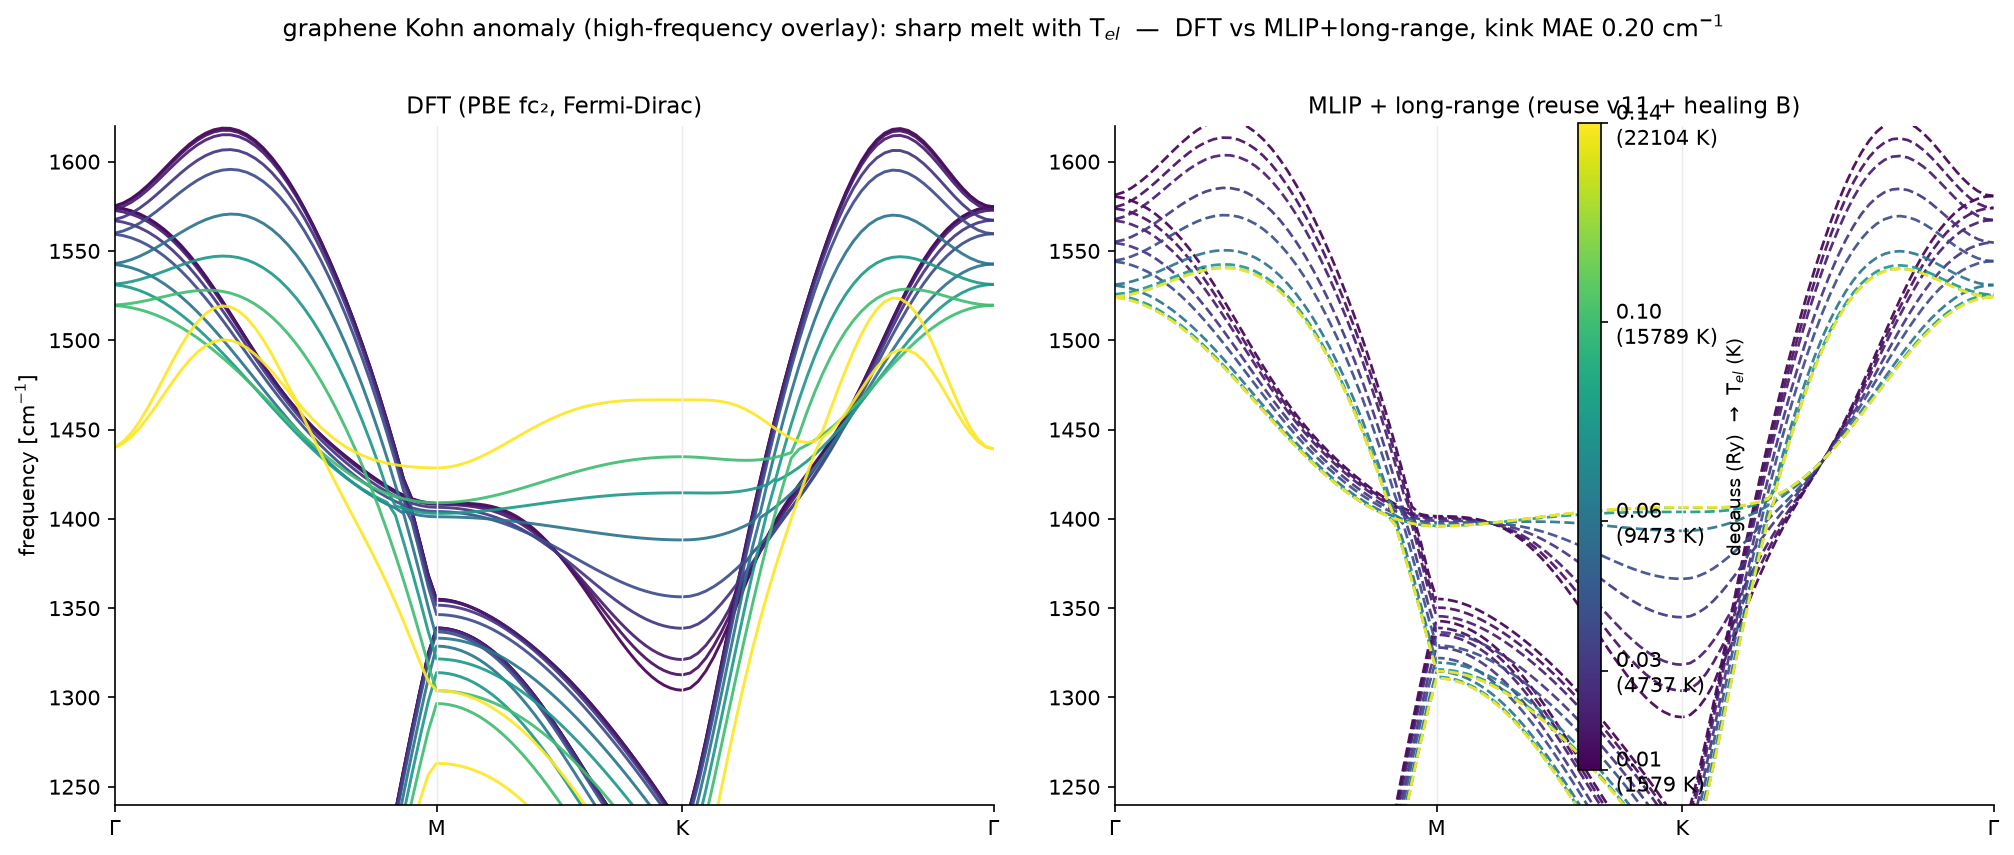
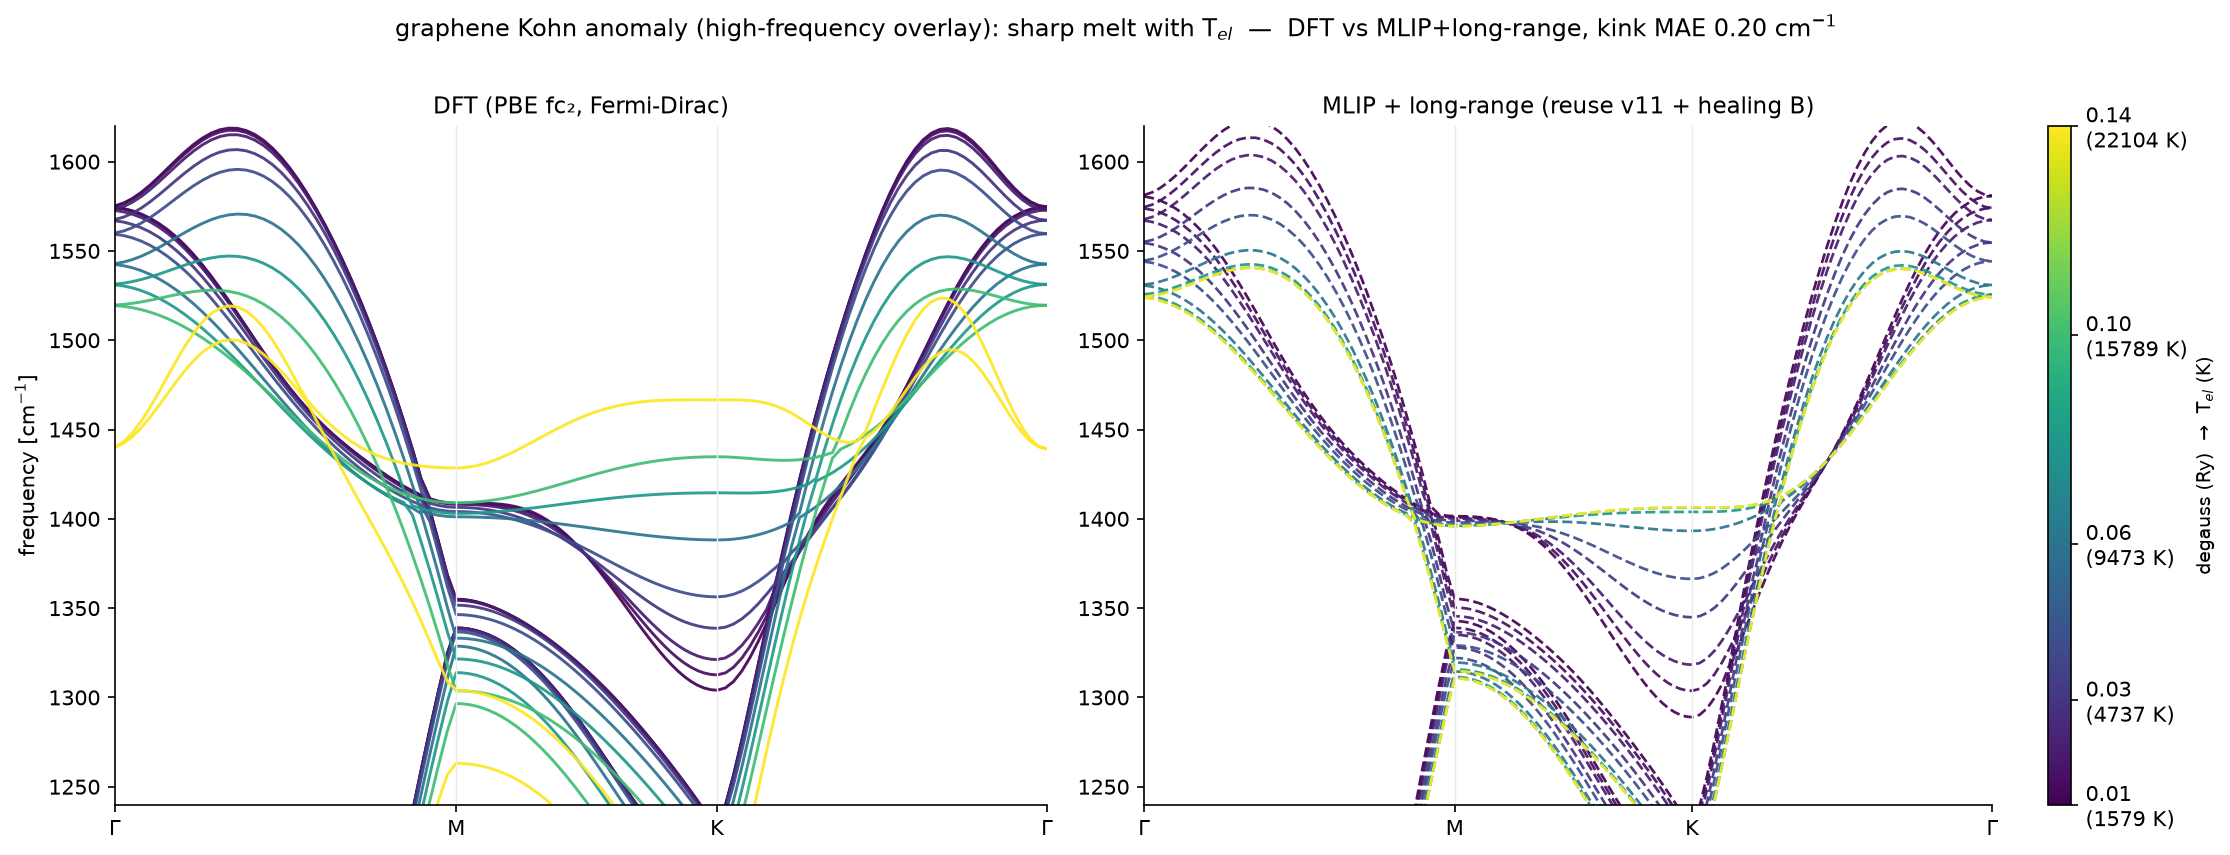
fix zoom colorbar overlap + add reuse-vs-retrain comparison to report §6
- lineA_kohn_zoom: wider figure (15in), colorbar pad 0.02->0.06 + fraction 0.03 (no overlap).
- report §6: add reuse_vs_retrain_vs_dft.png (Line A MAE 0.20 vs Line B 0.19, both reproduce
  Kohn anomaly + sharp melt via healing B(T)). Update boundary note (retrain done, MAE 0.19).

diff --git a/scripts/smearing_kink/plot_lineA_kohn_zoom.py b/scripts/smearing_kink/plot_lineA_kohn_zoom.py
@@ -34,7 +34,7 @@ def style(ax):
         ax.spines[s].set_visible(False)
 
 
-fig, (axD, axM) = plt.subplots(1, 2, figsize=(13.5, 5.6))
+fig, (axD, axM) = plt.subplots(1, 2, figsize=(15, 5.6))
 for i, dg in enumerate(dgs):
     col = cmap(norm(float(dg)))                  # dark(viridis)=sharp, yellow=broad
     axD.plot(x, dft_b[i], color=col, lw=1.4, alpha=0.92)
@@ -47,7 +47,7 @@ axD.set_ylabel("frequency [cm$^{-1}$]", fontsize=10)
 
 # single shared colourbar (degauss -> T_el), off to the right; replaces the in-axes legend
 sm = plt.cm.ScalarMappable(cmap=cmap, norm=norm); sm.set_array([])
-cbar = fig.colorbar(sm, ax=[axD, axM], pad=0.02, aspect=28)
+cbar = fig.colorbar(sm, ax=axM, pad=0.06, fraction=0.03, aspect=30)
 cbar.set_label("degauss (Ry)  →  T$_{el}$ (K)", fontsize=9)
 ticks_dg = np.array([0.01, 0.03, 0.06, 0.10, 0.14])
 cbar.set_ticks(ticks_dg)

diff --git a/docs/WEEKLY_2026-07-15.md b/docs/WEEKLY_2026-07-15.md
@@ -122,4 +122,10 @@
 
 **fd vs cold**:graphene 上 fd≠cold(dg0.040: K-kink fd 3.9 vs cold 12.5);fd 下 degauss=k_B·T_el 严格,故 (E)-channel 全程用 fd。
 
-**诚实边界**:固定-D₀ + healing-B 律已能复现 Kohn 熔化(MAE 0.20);backbone 必须用 dg0.08(宽 smearing dg0.14/0.20 畸变 fc₂)。径向 α(R) learnable-D₀ 边际 → 真正抓住突变的是 **B(T) healing 形参**(已用);进一步收紧靠 Line B(retrain backbone,V100 进行中)。
+**诚实边界**:固定-D₀ + healing-B 律已能复现 Kohn 熔化(MAE 0.20);backbone 必须用 dg0.08(宽 smearing dg0.14/0.20 畸变 fc₂)。径向 α(R) learnable-D₀ 边际 → 真正抓住突变的是 **B(T) healing 形参**(已用)。
+
+**Line B(retrain backbone on fd data,V100 epoch-308 checkpoint,RMSE_F 1.9 meV/Å)**:kink MAE **0.19** cm⁻¹(与 reuse 的 0.20 基本相同)——**reuse 和 retrain 都能复现 Kohn 反常 + 突变熔化**,backbone 选择不是瓶颈,**healing B(T) 律才是关键**。
+
+**对照图 `results/smearing_kink/reuse_vs_retrain_vs_dft.png`**:4 面板 —— 前 3 = DFT(黑实)vs reuse-v11(红虚)vs retrain-fd(蓝点)高频聚焦 @ dg0.01/0.04/0.08;第 4 = kink_K(T_el) 三条线几乎重叠。
+
+![Line A (reuse) vs Line B (retrain) vs DFT — graphene Kohn anomaly](../results/smearing_kink/reuse_vs_retrain_vs_dft.png)
